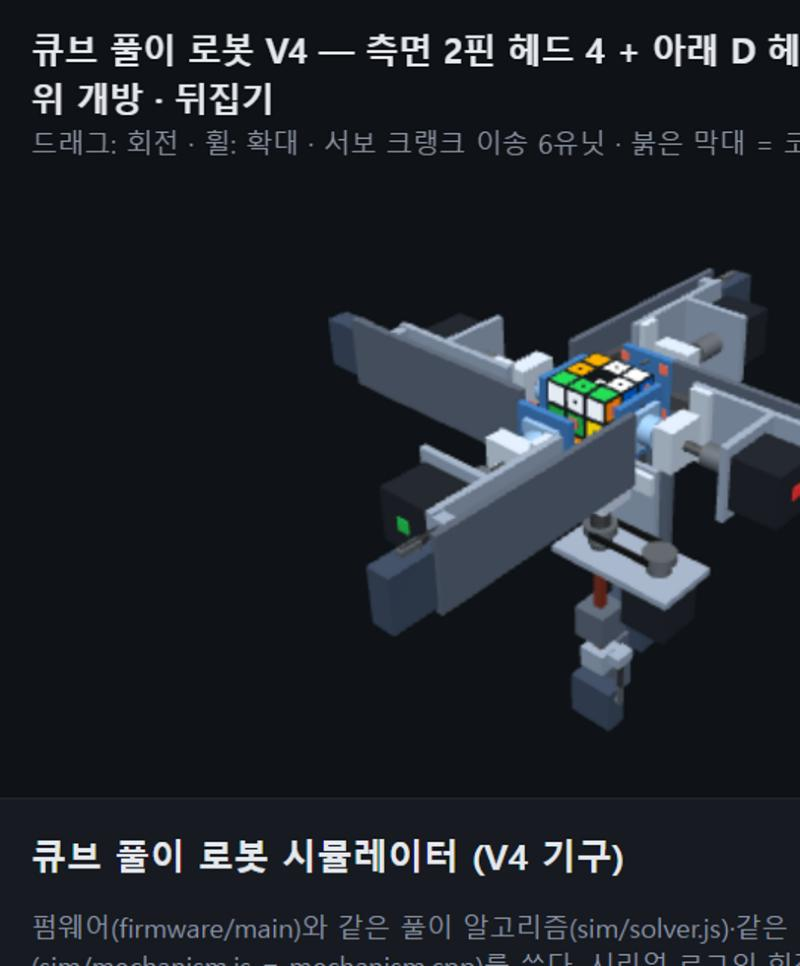
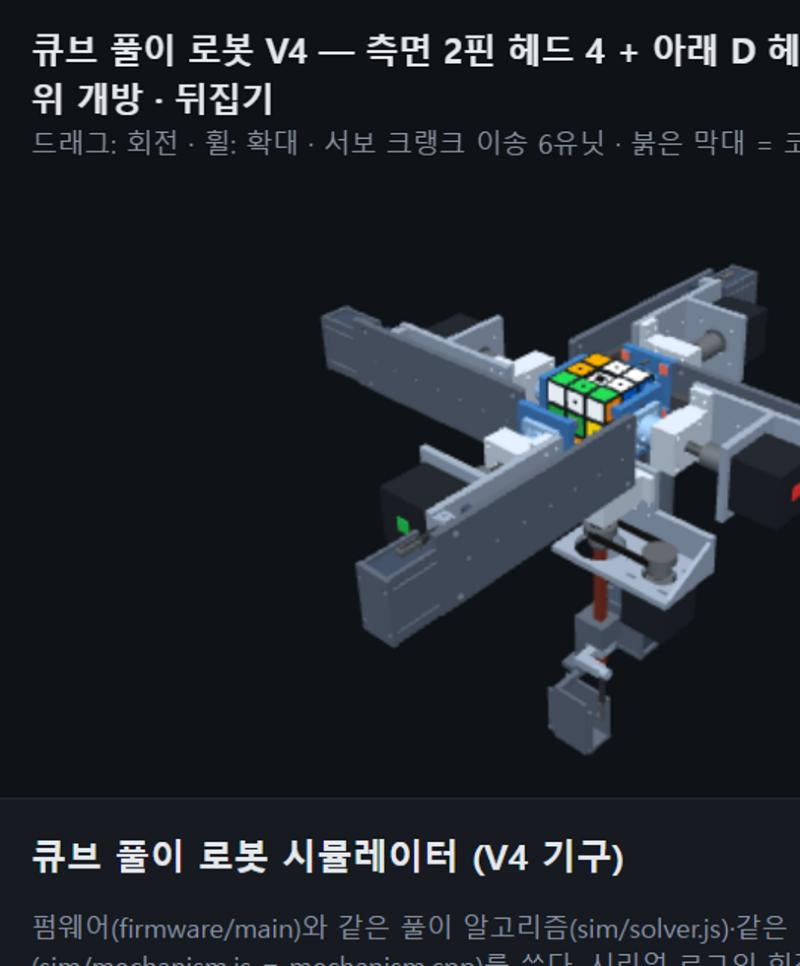
robot_v4: sync sim and docs with CAD

diff --git a/sim/app.js b/sim/app.js
@@ -130,14 +130,26 @@
   }
   // 조립 좌표에서의 [XY 중심, 바닥 z] (mm). parameters.json 의 print_offsets 가 있으면 그것을, 없으면 V2 head_parts() 값을 쓴다.
   const HEAD = {
-    drive_plate_2pin:  { offset: [0, 0, 0.8],      color: 0x34659a },
-    shaft_hub:         { offset: [0, 0, 11],       color: 0x7998b8 },
-    bearing_front_cap: { offset: [0, 0, 33],       color: 0xaab3bd },
-    bearing_housing:   { offset: [0, -7.5, 35],    color: 0xaab3bd },
-    bearing_rear_cap:  { offset: [0, 0, 52],       color: 0xaab3bd },
-    carriage:          { offset: [0, -12.5, 32],   color: 0x7d8898 },
-    rail_support:      { offset: [0, -44.5, 0],    color: 0x4a525f },
-    servo_mount:       { offset: [22, -44, 175],   color: 0x4a525f },
+    drive_plate_2pin:         { offset: [0, 0, 0.8],      color: 0x34659a },
+    shaft_hub:                { offset: [0, 0, 11],       color: 0x7998b8 },
+    bearing_front_cap_direct: { offset: [0, 0, 33],       color: 0xaab3bd },
+    bearing_housing_direct:   { offset: [0, -7.5, 35],    color: 0xaab3bd },
+    bearing_rear_cap_direct:  { offset: [0, 0, 52],       color: 0xaab3bd },
+    carriage_direct:          { offset: [0, -12.5, 32],   color: 0x7d8898 },
+    shaft_hub_hollow:         { offset: [0, 0, 11],       color: 0x7998b8 },
+    bearing_front_cap_hollow: { offset: [0, 0, 32],       color: 0xaab3bd },
+    bearing_housing_hollow:   { offset: [0, -7.5, 35],    color: 0xaab3bd },
+    bearing_rear_cap_hollow:  { offset: [0, 0, 55],       color: 0xaab3bd },
+    carriage_hollow:          { offset: [28, -12.5, 32],  color: 0x7d8898 },
+    rail_support:             { offset: [0, -44.5, 0],    color: 0x4a525f },
+    servo_mount:              { offset: [22, -44, 175],   color: 0x4a525f },
+    crank:                    { offset: [22, -44, 183],   color: 0x8d949c },
+    link:                     { offset: [22, -44, 147],   color: 0xc9ced6 },
+    lock_guide:               { offset: [0, 0, 160],      color: 0x4a525f },
+    lock_carriage:            { offset: [0, 0, 204],      color: 0x7d8898 },
+    lock_servo_mount:         { offset: [22, 24, 235],    color: 0x4a525f },
+    lock_crank:               { offset: [22, 24, 243],    color: 0x8d949c },
+    lock_link:                { offset: [22, 24, 204],    color: 0xc9ced6 },
   };
   const OFF = P.print_offsets || {};
   const GEO = {};
@@ -212,9 +224,10 @@
     frame.add(envelope('engage_switch', [12.8, 6.5, 5.8], [-10, -48, 150], servoMat));
     // 이송부(캐리지): 하우징·캡·캐리지·MGN12H 블록·추력 베어링·모터. 크랭크가 국소 +z 로 밀어낸다
     const carriage = new THREE.Group(); face.add(carriage);
-    for (const k of ['bearing_housing', 'bearing_front_cap', 'bearing_rear_cap', 'carriage']) if (!hollow && GEO[k]) carriage.add(new THREE.Mesh(GEO[k], MAT[k]));
-    if (hollow || !GEO.carriage) { carriage.add(boxAt(60, 6, 120, 0, -35, 92, MAT.carriage)); carriage.add(boxAt(hollow ? 116 : 60, 58, 6, hollow ? 28 : 0, -3, 101, MAT.carriage)); carriage.add(boxAt(12, 19, 10, 22, -41.5, 147, MAT.carriage)); }
-    if (hollow || !GEO.bearing_housing) { carriage.add(boxAt(34, 34, hollow ? 19 : 17, 0, 0, hollow ? 44.5 : 43.5, MAT.bearing_housing)); carriage.add(boxAt(60, 6, 17, 0, -29, 43.5, MAT.bearing_housing)); }
+    const V = hollow ? '_hollow' : '_direct';
+    for (const k of ['bearing_housing', 'bearing_front_cap', 'bearing_rear_cap', 'carriage']) if (GEO[k + V]) carriage.add(new THREE.Mesh(GEO[k + V], MAT[k + V]));
+    if (!GEO['carriage' + V]) { carriage.add(boxAt(60, 6, 120, 0, -35, 92, MAT.carriage_direct)); carriage.add(boxAt(hollow ? 116 : 60, 58, 6, hollow ? 28 : 0, -3, 101, MAT.carriage_direct)); carriage.add(boxAt(12, 19, 10, 22, -41.5, 147, MAT.carriage_direct)); }
+    if (!GEO['bearing_housing' + V]) { carriage.add(boxAt(34, 34, hollow ? 19 : 17, 0, 0, hollow ? 44.5 : 43.5, MAT.bearing_housing_direct)); carriage.add(boxAt(60, 6, 17, 0, -29, 43.5, MAT.bearing_housing_direct)); }
     carriage.add(boxAt(27, 4.9, 45.4, 0, -40.45, 84, alumMat));                 // MGN12H 블록 윗판
     for (const bx of [-9.85, 9.85]) carriage.add(boxAt(7.3, 6.1, 45.4, bx, -45.95, 84, alumMat));
     const motor = new THREE.Group(); carriage.add(motor);
@@ -233,7 +246,8 @@
     else { spin.add(boxAt(50, 50, 6, 0, 0, 8, MAT.drive_plate_2pin)); }
     for (const [px, py] of PIN_XY) spin.add(cylZ(P.pin_mm, -P.pin_engagement_mm, 13, steelMat, px, py, 12));   // Ø3×16 핀 2개
     for (const sx of [-pitch, pitch]) for (const sy of [-pitch, pitch]) spin.add(boxAt(8, 8, 0.8, sx, sy, 0.4, padMat));
-    if (GEO.shaft_hub) spin.add(new THREE.Mesh(GEO.shaft_hub, MAT.shaft_hub));
+    const hubKey = hollow && GEO.shaft_hub_hollow ? 'shaft_hub_hollow' : 'shaft_hub';
+    if (GEO[hubKey]) spin.add(new THREE.Mesh(GEO[hubKey], MAT[hubKey]));
     else { spin.add(boxAt(32, 32, 5, 0, 0, 13.5, MAT.shaft_hub)); spin.add(cylZ(24, 16, 28, MAT.shaft_hub)); }
     if (hollow) {
       spin.add(cylZ(P.hollow_od_mm, 16, 98, steelMat));                         // 중공 회전축 (안 Ø12 로 막대 통과)
@@ -258,13 +272,15 @@
     g.position.copy(n.clone().multiplyScalar(HALF));
     scene.add(g);
     const frame = new THREE.Group(); g.add(frame);
-    frame.add(boxAt(30, 30, 30, 0, 0, 175, MAT.rail_support));                   // 출력 가이드 블록 (사각 구멍 8.3)
-    frame.add(boxAt(8, 30, 60, 0, -22, 240, MAT.rail_support));                  // 서보 받침
+    const LSA = P.lock_servo_axis || [22, 24, 255];
+    if (GEO.lock_guide) frame.add(new THREE.Mesh(GEO.lock_guide, MAT.lock_guide)); else frame.add(boxAt(30, 30, 30, 0, 0, 175, MAT.rail_support));   // 출력 가이드 블록 (사각 구멍 8.3)
+    if (GEO.lock_servo_mount) frame.add(new THREE.Mesh(GEO.lock_servo_mount, MAT.lock_servo_mount)); else frame.add(boxAt(8, 30, 60, 0, LSA[1], 240, MAT.rail_support));
     const carriage = new THREE.Group(); g.add(carriage);
-    carriage.add(boxAt(P.lock_bar_mm, P.lock_bar_mm, 230, 0, 0, 104, lockMat));  // 막대: 국소 z −11(소켓 바닥) ~ 219
-    carriage.add(boxAt(24, 24, 20, 0, 0, 214, MAT.carriage));                    // 막대 캐리지
-    carriage.add(boxAt(12, 19, 10, 22, 0, 204, MAT.carriage));                   // 링크 러그
-    const crank = makeCrank(frame, [22, 0, 255], P.lock_crank_r_mm, 204, carriage);
+    const tipZ = -(P.cube_mm / 2 + (P.lock_tip_y_mm !== undefined ? P.lock_tip_y_mm : -23.5));   // 결합 시 막대 끝 (면 평면 기준 국소 z, 안쪽이 −)
+    const barLen = P.lock_length_mm || 230;
+    carriage.add(boxAt(P.lock_bar_mm, P.lock_bar_mm, barLen, 0, 0, tipZ + barLen / 2, lockMat));   // 막대
+    if (GEO.lock_carriage) carriage.add(new THREE.Mesh(GEO.lock_carriage, MAT.lock_carriage)); else { carriage.add(boxAt(24, 24, 20, 0, 0, 214, MAT.carriage_direct)); carriage.add(boxAt(12, 19, 10, 22, LSA[1], 204, MAT.carriage_direct)); }
+    const crank = makeCrank(frame, LSA, P.lock_crank_r_mm, 204, carriage);
     return { group: g, frame, carriage, crank };
   })();
   // 유닛 번호(mechanism.js) → 크랭크 목록
@@ -526,6 +542,7 @@
       h.motor.visible = chkMotor.checked;
     }
     lock.frame.visible = chkFrame.checked;
+    for (const o of lock.carriage.children) if (o.material !== lockMat) o.visible = chkFrame.checked;
   }
   chkFrame.onchange = chkMotor.onchange = applyVisibility;
 

diff --git a/AGENTS.md b/AGENTS.md
@@ -15,7 +15,7 @@ Claude Code와 Codex가 함께 쓰는 공용 규칙 (CLAUDE.md는 이 파일을 
 ## 폴더 구조
 - `firmware/main/` — 펌웨어 (스케치 폴더명 = 파일명 `main`). `cube.*` 큐브 모델, `solver.*` IDA*+OLL/PLL, `motors.*` A4988 ×5(STEP 5 + DIR 공용, 뒤집기), `mechanism.*` 기구 절차(이송 유닛 FB/RL/D/LOCK 서보 크랭크·결합 스위치·뒤집기·장착), `tables.h` **자동 생성(수정 금지)**
 - `sim/` — JS 시뮬레이터. `cube.js`/`solver.js` 는 펌웨어와 같은 알고리즘(결과 문자열 동일해야 함), `mechanism.js` 는 `firmware/main/mechanism.cpp` 와 같은 절차·같은 출력 줄·같은 flips/regrips 횟수, `tables.js`·`models.js` 자동 생성, `index.html`+`app.js` Three.js 3D. `app.js` 는 V4 기구(도넛 큐브 + 측면 2핀 헤드 4 + 아래 D 헤드(중공축·벨트) + 잠금 막대, 서보 크랭크 이송 6유닛, 뒤집기, 장착/배출)를 `docs/HARDWARE_V4.md` 2절 좌표·치수로 그린다 — `models/robot_v4/parameters.json` 의 `print_offsets`/`purchased` 가 있으면 그 값을, 없으면 문서 기본값과 기본 도형을 쓴다
-- `tools/` — `gen_tables.js`(표 생성+OLL/PLL 전수 검증), `test_solver.js`(300회 회귀), `gen_wokwi_test.js`(교차검증 시나리오 생성), `embed_models.js`(V2 헤드 STL+parameters.json→models.js), `serve.js`(미리보기, `POST /__screenshot?name=x.png` 로 docs/images 저장), `algs.js`(공식 원본), `build_robot_v2.py`/`check_robot_v2.py`/`render_robot_v2.py`(V2 CAD 생성·검사·렌더, CadQuery)
+- `tools/` — `gen_tables.js`(표 생성+OLL/PLL 전수 검증), `test_solver.js`(300회 회귀), `gen_wokwi_test.js`(교차검증 시나리오 생성), `embed_models_v4.js`(V4 출력 STL+parameters.json→models.js; `embed_models.js`/`embed_models_v2.js` 는 V3/V2 이력), `gen_mechanism_test.js`(V4 기구 실제 모드 시나리오), `serve.js`(미리보기, `POST /__screenshot?name=x.png` 로 docs/images 저장), `algs.js`(공식 원본), `build_robot_v4.py`/`check_robot_v4.py`/`render_robot_v4.py`(V4 CAD 생성·검사·렌더, CadQuery 2.7 — `.venv-cad`), V2/V3 생성기는 이력
 - `diagram.json`, `wokwi.toml` — Wokwi 회로도(UNO R3: R4 WiFi 와 헤더 핀 배치 동일), `build/main.ino.hex|elf` 를 시뮬레이션
 - `fusion/scripts/cube_robot_parts.py` — Fusion 부품 3종(커플러·센터 캡·모터 브래킷) 생성 + STL/f3d 내보내기 (단위 cm, 상수는 mm). `fusion_exec` 실행 시 `adsk, app, ui, design, root` 가 미리 정의됨, 반환값은 `result` 에 대입. 파일을 통째로 실행하려면 `exec(compile(open(path, encoding='utf-8').read(), path, 'exec'), {...미리 정의된 이름...})`
 - `models/` — 내보낸 STL 3종 + `CubeRobotParts.f3d`
@@ -27,7 +27,7 @@ Claude Code와 Codex가 함께 쓰는 공용 규칙 (CLAUDE.md는 이 파일을 
 - `sim/solver.js` 와 `firmware/main/solver.cpp` 는 같은 탐색 순서·같은 규칙이어야 한다. 한쪽을 바꾸면 다른 쪽도 바꾸고 `node tools/gen_wokwi_test.js 1` → `scripts/simulate.ps1 -Scenario tests/solve_seed1.test.yaml -TimeoutMs 180000` 으로 재확인
 - `sim/mechanism.js` 와 `firmware/main/mechanism.cpp` 는 같은 절차(지지 전환 순서·뒤집기 조건·장착/배출)와 같은 시리얼 줄이어야 한다. 한쪽을 바꾸면 다른 쪽도 바꾸고 `node tools/gen_mechanism_test.js` → `simulate.ps1 -Scenario tests/mechanism_v4.test.yaml -TimeoutMs 120000`(실제 모드, 센서 버튼 시나리오) 과 시드 시나리오(flips/regrips 비교)를 재실행
 - `tools/algs.js` 나 거리표 정의를 바꾸면 `node tools/gen_tables.js` 재실행 (커버리지 실패 시 종료코드 1)
-- V4 CAD(`tools/build_robot_v4.py`) 치수를 바꾸면 `docs/HARDWARE_V4.md` 2절을 먼저 고치고 `sim/app.js`(기본값·HEAD 오프셋)·`firmware/main/mechanism.h`(이송량·서보 각)·CAD 를 맞춘 뒤 `.venv-cadScriptspython.exe tools/build_robot_v4.py` → `check_robot_v4.py` → `node tools/embed_models.js` 재실행
+- V4 CAD(`tools/build_robot_v4.py`) 치수를 바꾸면 `docs/HARDWARE_V4.md` 2절을 먼저 고치고 `sim/app.js`(기본값·HEAD 오프셋)·`firmware/main/mechanism.h`(이송량·서보 각)·CAD 를 맞춘 뒤 `.venv-cad/Scripts/python.exe tools/build_robot_v4.py` → `check_robot_v4.py` → `node tools/embed_models_v4.js` 재실행
 - Codex 플러그인은 최적화·설계 검토·리뷰에 꾸준히 쓴다 (결과는 `docs/` 에 기록)
 
 ## 작업 순서

diff --git a/docs/PIPELINE.md b/docs/PIPELINE.md
@@ -24,7 +24,7 @@ tools/algs.js (OLL 57 · PLL 21, 사람 표기)      sim/cube.js (큐브 모델,
 
 tools/build_robot_v2.py (CadQuery) ──► models/robot_v2/{cube,head}/*.stl|step, parameters.json
   (V1: fusion/scripts/cube_robot_parts.py ──(MCP fusion_exec)──► models/*.stl)   │
-                                                     node tools/embed_models.js ─► sim/models.js (헤드 STL 7종 + 매개변수)
+                                                     node tools/embed_models_v4.js ─► sim/models.js (헤드 STL 7종 + 매개변수)
                                                                                    │
                                             sim/index.html + sim/app.js (Three.js 3D 시뮬레이터: 큐브 + 핀 구동 헤드 6개 + 결합/후퇴 전환)
 ```
@@ -44,7 +44,7 @@ tools/build_robot_v2.py (CadQuery) ──► models/robot_v2/{cube,head}/*.stl|s
 | 6. 3D 부품 (V4) | `.venv-cad\Scripts\python.exe tools/build_robot_v4.py` → `check_robot_v4.py` → `render_robot_v4.py` (CadQuery 2.7, Python 3.12 venv) | `models/robot_v4/**` STL·STEP·GLB, `parameters.json`, `mechanical_checks.json` |
 | 6'. 3D 부품 (V2, 이력) | `python tools/build_robot_v2.py` → `check_robot_v2.py` → `render_robot_v2.py` | `models/robot_v2/**` |
 | 6'. 3D 부품 (V1) | Claude Code 에서 `fusion_exec` 로 `fusion/scripts/cube_robot_parts.py` 실행 | `models/center_coupler.stl`, `center_cap.stl`, `motor_mount.stl` |
-| 7. STL 임베드 | `node tools/embed_models.js` | `sim/models.js` (V4 출력 부품 STL + `parameters.json` 의 `print_offsets`/`purchased`) |
+| 7. STL 임베드 | `node tools/embed_models_v4.js` | `sim/models.js` (V4 출력 부품 STL + `parameters.json` 의 `print_offsets`/`purchased`) |
 | 8. 시뮬레이터 | `node tools/serve.js` → http://localhost:8765/sim/ (또는 `sim/index.html` 더블클릭) | 3D 시연 |
 | 9. 업로드 | `powershell -ExecutionPolicy Bypass -File scripts/upload.ps1 -Port COMx -Fqbn arduino:renesas_uno:unor4wifi` | 실물 보드 |
 

diff --git a/docs/HARDWARE_V4.md b/docs/HARDWARE_V4.md
@@ -171,7 +171,7 @@ A4988 ENABLE 은 묶어서 LOW(항상 활성 → 유지 토크). 서보 6개는 
 ## 6. 파일
 
 - `tools/build_robot_v4.py`, `check_robot_v4.py`, `render_robot_v4.py` → `models/robot_v4/` (출력 STL/STEP, `robot_assembly.step`, `parameters.json`, `mechanical_checks.json`)
-- `node tools/embed_models.js` 는 `models/robot_v4/parameters.json` 과 `models/robot_v4/print/*.stl` 을 `sim/models.js` 에 넣는다
+- `node tools/embed_models_v4.js` 는 `models/robot_v4/parameters.json` 과 `models/robot_v4/print/*.stl` 을 `sim/models.js` 에 넣는다
 - `firmware/main/mechanism.h/.cpp` (절차·센서·서보), `motors.h/.cpp` (STEP 5 + DIR 공용, 뒤집기), `main.ino` (버튼 짧게/길게, `L`/`E`/`F`/`T` 명령)
 - `sim/mechanism.js` (펌웨어와 같은 절차 → 동작 목록), `sim/app.js` (V4 3D), `tools/gen_mechanism_test.js` (Wokwi 실제 모드 시나리오), `tools/gen_wokwi_test.js` (풀이 교차검증 + 뒤집기·결합 횟수)
 
